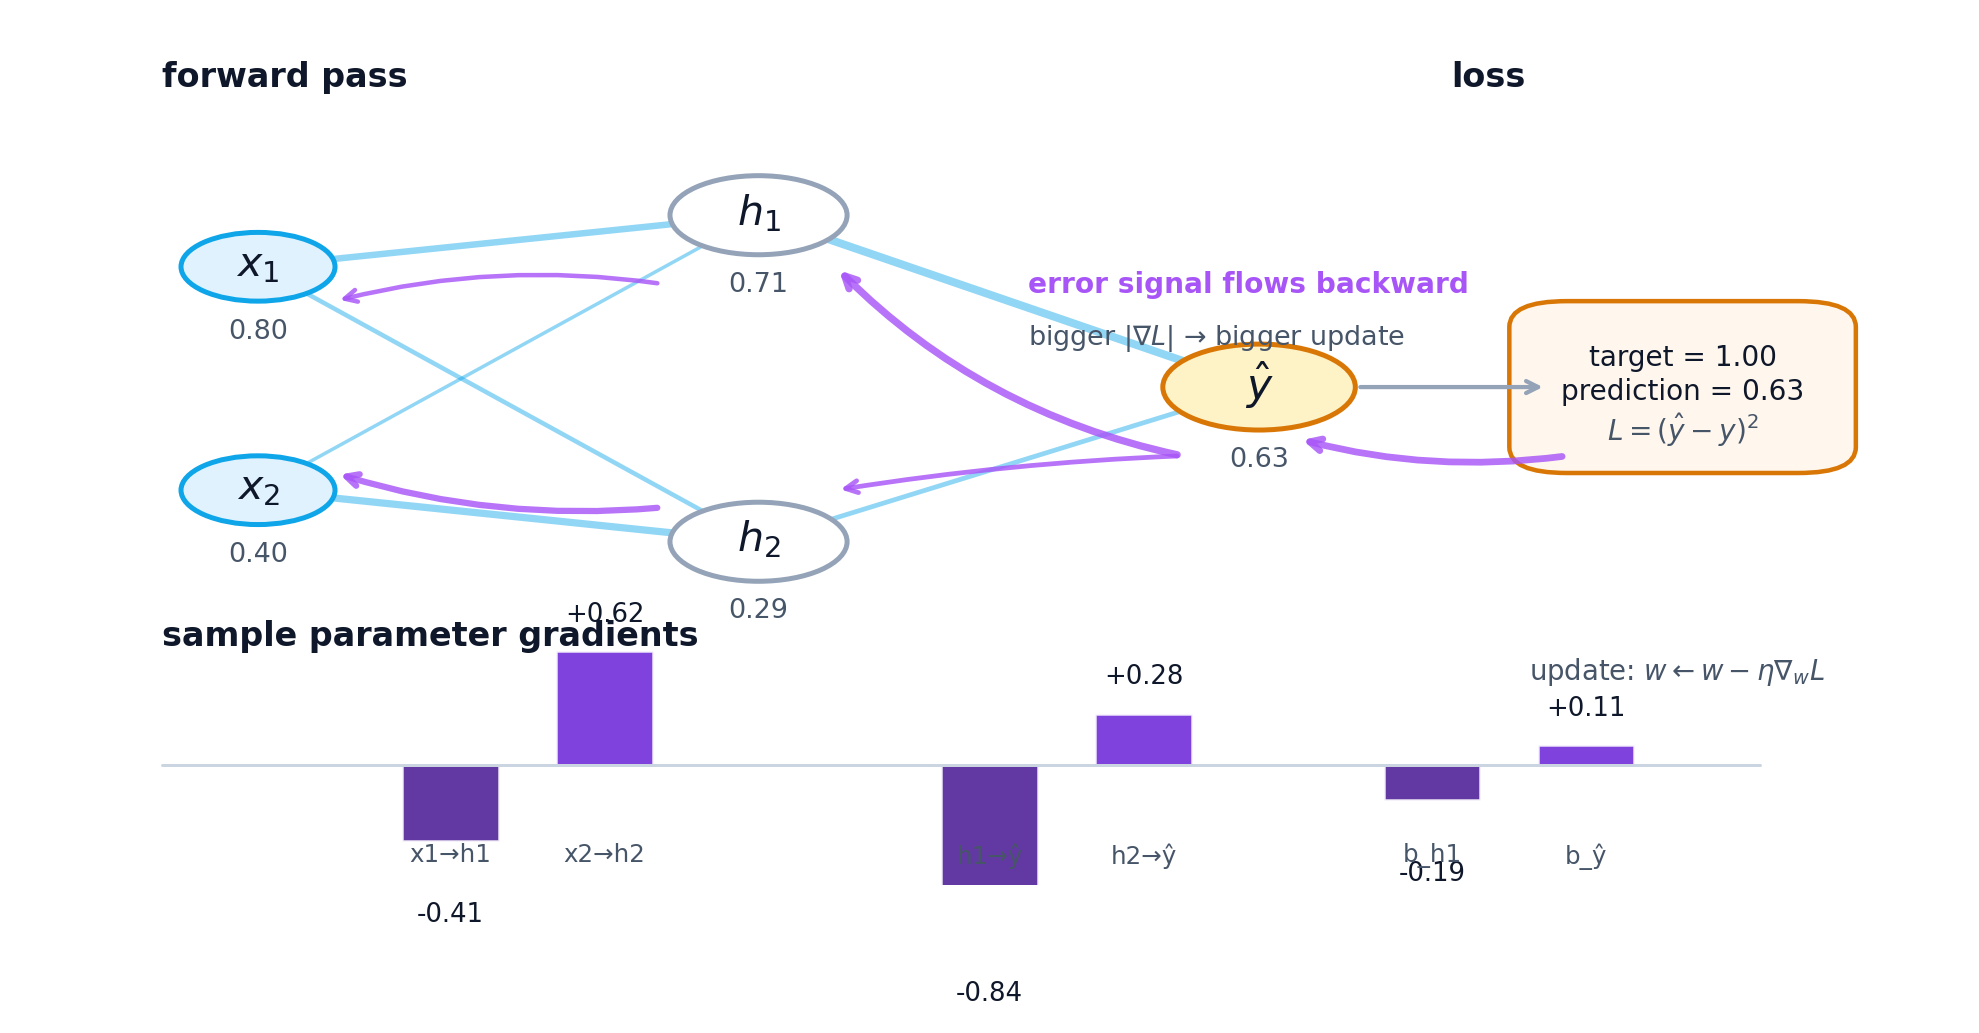
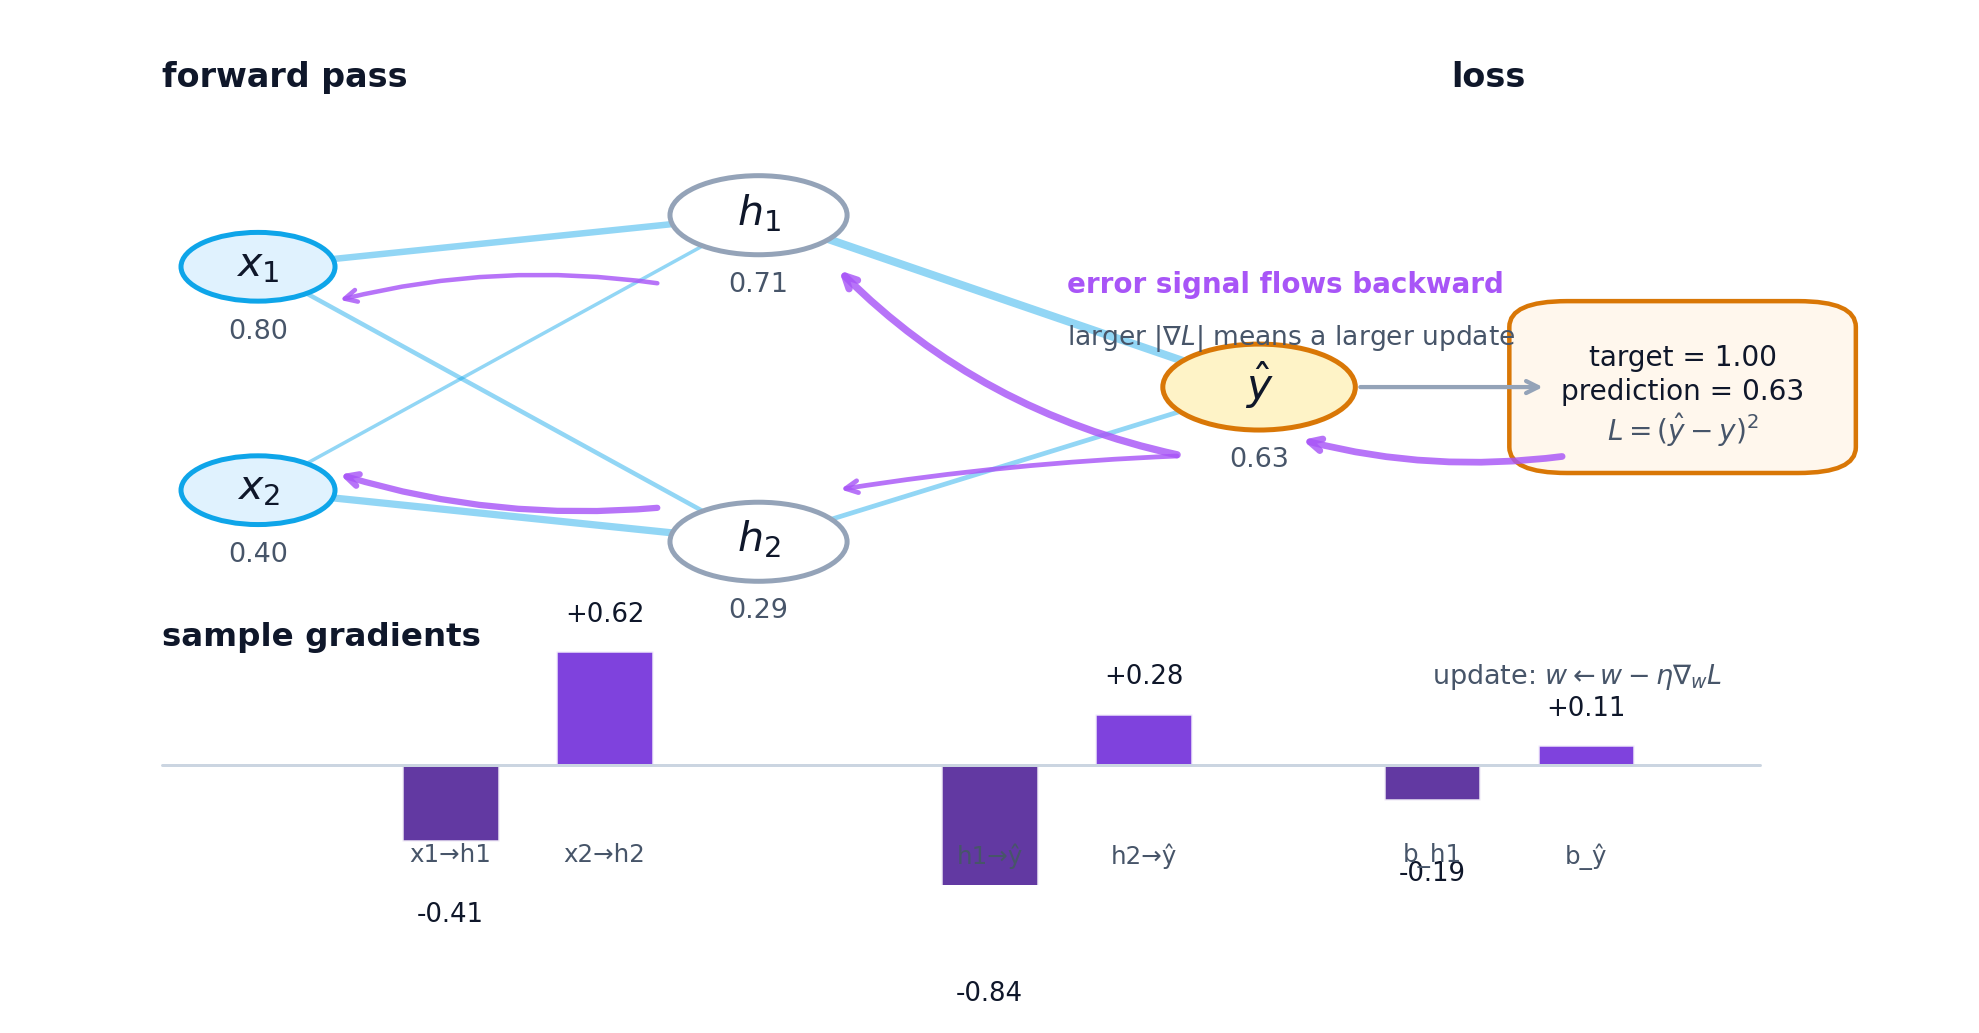
Audit article figures and fix overlap issues

diff --git a/scripts/generate_neural_network_article_images.py b/scripts/generate_neural_network_article_images.py
@@ -276,16 +276,15 @@ def image_weights_biases():
     save(fig, 'weights-biases.png')
 
 def image_weights_bias_animation():
-    feature_names = ['room below target', 'someone home', 'afternoon sun']
+    feature_names = ['cold room', 'someone home', 'afternoon sun']
     values = np.array([0.80, 1.00, 0.60])
     baseline_weights = np.array([1.10, 0.50, -0.70])
     baseline_feature_score = np.dot(values, baseline_weights)
 
-    fig, (ax_weights, ax_bias) = plt.subplots(1, 2, figsize=(13.6, 5.0), facecolor='white')
-    fig.subplots_adjust(left=0.06, right=0.98, bottom=0.14, top=0.86, wspace=0.22)
-    fig.text(0.06, 0.93, 'same room, two different knobs', fontsize=18, fontweight='bold', color=COLORS['ink'])
-    fig.text(0.06, 0.88, 'left changes what matters. right changes how much evidence is enough.', fontsize=11.6, color=COLORS['muted'])
-    fig.text(0.06, 0.83, 'room state: cold = 0.80, home = 1.00, sun = 0.60', fontsize=11.0, color=COLORS['muted'])
+    fig, (ax_weights, ax_bias) = plt.subplots(1, 2, figsize=(13.8, 5.2), facecolor='white')
+    fig.subplots_adjust(left=0.12, right=0.98, bottom=0.14, top=0.78, wspace=0.22)
+    fig.text(0.06, 0.93, 'Thermostat example: weight vs bias', fontsize=18.5, fontweight='bold', color=COLORS['ink'])
+    fig.text(0.06, 0.88, 'Room stays fixed: cold 0.80, home 1.00, sun 0.60. Left changes one weight; right changes only bias.', fontsize=11.2, color=COLORS['muted'])
 
     frames = list(range(48))
 
@@ -312,7 +311,7 @@ def image_weights_bias_animation():
         left_threshold = -current_bias
         left_z = left_score + current_bias
 
-        ax_weights.set_title('weights', loc='left', fontsize=14, pad=10, fontweight='bold')
+        ax_weights.set_title('left knob: weight', loc='left', fontsize=13.5, pad=10, fontweight='bold')
         y = np.arange(len(feature_names))
         colors = [COLORS['blue_dark'], COLORS['green_dark'], COLORS['red_dark']]
         ax_weights.barh(y, contributions, color=colors, alpha=0.88)
@@ -324,12 +323,25 @@ def image_weights_bias_animation():
         sns.despine(ax=ax_weights, left=True, bottom=False)
         for idx, value in enumerate(contributions):
             ax_weights.text(value + (0.03 if value >= 0 else -0.03), idx, f'{value:+.2f}', va='center', ha='left' if value >= 0 else 'right', fontsize=10.2)
-        ax_weights.text(0.02, 0.96, phase_label if weight_phase else 'weights fixed', transform=ax_weights.transAxes, va='top', fontsize=11.0, color=COLORS['muted'])
-        ax_weights.text(0.02, 0.86, f'cold-room weight = {current_weights[0]:+.2f}', transform=ax_weights.transAxes, va='top', fontsize=11.0, color=COLORS['ink'])
-        ax_weights.text(0.02, 0.76, f'score = {left_score:.2f}   cutoff = {left_threshold:.2f}', transform=ax_weights.transAxes, va='top', fontsize=11.0, color=COLORS['ink'])
-        ax_weights.text(0.02, 0.66, 'heat on' if left_z > 0 else 'stay off', transform=ax_weights.transAxes, va='top', fontsize=11.4, fontweight='bold', color=COLORS['green_dark'] if left_z > 0 else COLORS['red_dark'])
+        left_summary = '\n'.join([
+            'moving now' if weight_phase else 'fixed now',
+            f'cold-room weight = {current_weights[0]:+.2f}',
+            f'room score = {left_score:.2f}   cutoff = {left_threshold:.2f}',
+        ])
+        ax_weights.text(
+            0.03,
+            0.95,
+            left_summary,
+            transform=ax_weights.transAxes,
+            va='top',
+            fontsize=10.7,
+            color=COLORS['ink'],
+            linespacing=1.35,
+            bbox={'boxstyle': 'round,pad=0.20', 'fc': 'white', 'ec': 'none', 'alpha': 0.88},
+        )
+        ax_weights.text(0.03, 0.67, 'heat on' if left_z > 0 else 'stay off', transform=ax_weights.transAxes, va='top', fontsize=11.2, fontweight='bold', color=COLORS['green_dark'] if left_z > 0 else COLORS['red_dark'])
 
-        ax_bias.set_title('bias', loc='left', fontsize=14, pad=10, fontweight='bold')
+        ax_bias.set_title('right knob: bias', loc='left', fontsize=13.5, pad=10, fontweight='bold')
         ax_bias.set_xlim(0.0, 1.35)
         ax_bias.set_ylim(0, 1)
         ax_bias.set_yticks([])
@@ -341,10 +353,23 @@ def image_weights_bias_animation():
         z = feature_score + bias_demo
         ax_bias.axvline(threshold, color=COLORS['ink'], linewidth=2)
         ax_bias.scatter([feature_score], [0.45], s=84, color=COLORS['blue_dark'], zorder=3)
-        ax_bias.text(0.02, 0.96, 'bias fixed' if weight_phase else phase_label, transform=ax_bias.transAxes, va='top', fontsize=11.0, color=COLORS['muted'])
-        ax_bias.text(0.02, 0.86, f'same score = {feature_score:.2f}', transform=ax_bias.transAxes, va='top', fontsize=11.0, color=COLORS['blue_dark'])
-        ax_bias.text(0.02, 0.76, f'b = {bias_demo:+.2f}   cutoff = {threshold:.2f}', transform=ax_bias.transAxes, va='top', fontsize=11.0, color=COLORS['ink'])
-        ax_bias.text(0.02, 0.66, 'heat on' if z > 0 else 'stay off', transform=ax_bias.transAxes, va='top', fontsize=11.4, fontweight='bold', color=COLORS['green_dark'] if z > 0 else COLORS['red_dark'])
+        right_summary = '\n'.join([
+            'fixed now' if weight_phase else 'moving now',
+            f'same room score = {feature_score:.2f}',
+            f'bias = {bias_demo:+.2f}   cutoff = {threshold:.2f}',
+        ])
+        ax_bias.text(
+            0.03,
+            0.95,
+            right_summary,
+            transform=ax_bias.transAxes,
+            va='top',
+            fontsize=10.7,
+            color=COLORS['ink'],
+            linespacing=1.35,
+            bbox={'boxstyle': 'round,pad=0.20', 'fc': 'white', 'ec': 'none', 'alpha': 0.88},
+        )
+        ax_bias.text(0.03, 0.67, 'heat on' if z > 0 else 'stay off', transform=ax_bias.transAxes, va='top', fontsize=11.2, fontweight='bold', color=COLORS['green_dark'] if z > 0 else COLORS['red_dark'])
         ax_bias.text(threshold, 0.74, 'cutoff', ha='center', fontsize=10.2, color=COLORS['muted'])
         ax_bias.text(feature_score, 0.18, 'same room score', ha='center', fontsize=10.0, color=COLORS['blue_dark'])
 
@@ -353,25 +378,25 @@ def image_weights_bias_animation():
     plt.close(fig)
 
 def image_activation_functions():
-    fig, ax = plt.subplots(figsize=(14, 8))
+    fig, ax = plt.subplots(figsize=(14, 7.2))
     fig.patch.set_facecolor(COLORS['bg'])
-    fig.subplots_adjust(top=0.80, left=0.08, right=0.97, bottom=0.12)
+    fig.subplots_adjust(top=0.83, left=0.08, right=0.97, bottom=0.14)
     x = np.linspace(-4.5, 4.5, 400)
     relu = np.maximum(0, x)
     sigmoid = 1 / (1 + np.exp(-x))
     tanh = np.tanh(x)
+
+    fig.text(0.08, 0.95, 'Activation functions break the straight-line limit', fontsize=20.5, fontweight='bold', color=COLORS['ink'])
+    fig.text(0.08, 0.905, 'Each curve reshapes the weighted sum differently after the same scoring step.', fontsize=11.8, color=COLORS['muted'])
 
     ax.plot(x, relu, color=COLORS['amber_dark'], linewidth=3, label='ReLU')
     ax.plot(x, sigmoid, color=COLORS['blue_dark'], linewidth=3, label='Sigmoid')
     ax.plot(x, tanh, color=COLORS['green_dark'], linewidth=3, label='Tanh')
     ax.axhline(0, color=COLORS['line'], linewidth=1)
     ax.axvline(0, color=COLORS['line'], linewidth=1)
-    ax.set_title('Activation functions are where the model stops being linear', loc='left', pad=15)
-    ax.text(0.0, 1.06, 'Different curves, same big job: add non-linearity so the model can bend.',
-            transform=ax.transAxes, fontsize=12.5, color=COLORS['muted'])
     ax.set_xlabel('input to the activation')
     ax.set_ylabel('output response')
-    ax.legend(frameon=False, ncol=3, loc='upper left')
+    ax.legend(frameon=False, ncol=3, loc='upper left', bbox_to_anchor=(0.0, 1.01), borderaxespad=0.0)
     ax.grid(alpha=0.22)
     sns.despine(ax=ax)
     save(fig, 'activation-functions.png')
@@ -668,7 +693,7 @@ def image_backprop_blame_assignment():
 
     ax.text(0.07, 0.93, 'forward pass', fontsize=13.4, fontweight='bold', color=COLORS['ink'])
     ax.text(0.74, 0.93, 'loss', fontsize=13.4, fontweight='bold', color=COLORS['ink'])
-    ax.text(0.07, 0.28, 'sample parameter gradients', fontsize=13.4, fontweight='bold', color=COLORS['ink'])
+    ax.text(0.07, 0.28, 'sample gradients', fontsize=13.0, fontweight='bold', color=COLORS['ink'])
 
     inputs = [(0.12, 0.72, r'$x_1$', 0.80), (0.12, 0.46, r'$x_2$', 0.40)]
     hidden = [(0.38, 0.78, r'$h_1$', 0.71), (0.38, 0.40, r'$h_2$', 0.29)]
@@ -714,8 +739,8 @@ def image_backprop_blame_assignment():
     ]
     for start, end, rad, width in backward_paths:
         ax.add_patch(FancyArrowPatch(start, end, arrowstyle='->', linewidth=width, color=COLORS['purple'], alpha=0.82, mutation_scale=12, connectionstyle=f'arc3,rad={rad}'))
-    ax.text(0.52, 0.69, 'error signal flows backward', fontsize=11.2, color=COLORS['purple'], fontweight='bold')
-    ax.text(0.52, 0.63, r'bigger $|\nabla L|$ → bigger update', fontsize=10.8, color=COLORS['muted'])
+    ax.text(0.54, 0.69, 'error signal flows backward', fontsize=11.1, color=COLORS['purple'], fontweight='bold')
+    ax.text(0.54, 0.63, r'larger $|\nabla L|$ means a larger update', fontsize=10.6, color=COLORS['muted'])
 
     baseline = 0.14
     ax.plot([0.07, 0.90], [baseline, baseline], color='#cbd5e1', linewidth=1.2)
@@ -734,7 +759,7 @@ def image_backprop_blame_assignment():
         ax.add_patch(Rectangle((x - 0.025, baseline), 0.05, height, facecolor=color, alpha=0.88))
         ax.text(x, baseline + height + (0.028 if value >= 0 else -0.070), f'{value:+.2f}', ha='center', va='bottom' if value >= 0 else 'top', fontsize=10.4)
         ax.text(x, 0.05, label, ha='center', va='top', fontsize=9.8, color=COLORS['muted'])
-    ax.text(0.78, 0.24, r'update: $w \leftarrow w - \eta \nabla_w L$', fontsize=11.0, color=COLORS['muted'])
+    ax.text(0.73, 0.235, r'update: $w \leftarrow w - \eta \nabla_w L$', fontsize=10.8, color=COLORS['muted'])
     save(fig, 'backprop-blame-assignment.png')
 
 def image_debugging_checklist():

diff --git a/_notes/neural-network-figure-scorecard.md b/_notes/neural-network-figure-scorecard.md
@@ -1,0 +1,61 @@
+# Neural Network Article Figure Scorecard
+
+Legend:
+
+- `LC` lesson clarity
+- `PL` plain-language labels
+- `RO` reading order
+- `FC` fixed vs changing
+- `QH` quantitative honesty
+- `MA` math alignment
+- `TF` text fit
+- `VE` visual economy
+- `AC` accessibility
+- `EP` editorial polish
+
+Shipping threshold: `40/50` and no score below `3`.
+
+| Figure | LC | PL | RO | FC | QH | MA | TF | VE | AC | EP | Total |
+| --- | ---: | ---: | ---: | ---: | ---: | ---: | ---: | ---: | ---: | ---: | ---: |
+| `explanation-problem.png` | 4 | 5 | 5 | 4 | 5 | 4 | 5 | 4 | 4 | 4 | 44 |
+| `neuron-scoring-rule.png` | 5 | 4 | 5 | 4 | 5 | 5 | 4 | 4 | 4 | 4 | 44 |
+| `weights-biases.png` | 5 | 4 | 5 | 5 | 5 | 5 | 5 | 4 | 4 | 4 | 46 |
+| `weights-bias-threshold-shift.gif` | 5 | 4 | 5 | 5 | 5 | 4 | 4 | 4 | 4 | 4 | 44 |
+| `activation-functions.png` | 4 | 4 | 5 | 4 | 5 | 5 | 5 | 4 | 4 | 4 | 44 |
+| `representation-building.png` | 4 | 4 | 5 | 5 | 4 | 4 | 5 | 4 | 4 | 4 | 43 |
+| `backprop-blame-assignment.png` | 5 | 4 | 4 | 5 | 4 | 5 | 4 | 4 | 4 | 4 | 43 |
+| `debugging-checklist.png` | 4 | 5 | 5 | 4 | 5 | 4 | 5 | 3 | 4 | 4 | 43 |
+
+## Notes By Figure
+
+- `explanation-problem.png`
+  - Clear and clean now.
+  - Still a little box-heavy, but not confusing.
+
+- `neuron-scoring-rule.png`
+  - Good teaching arc from inputs to weighted sum to activation.
+  - Next improvement would be slightly more breathing room around the left table.
+
+- `weights-biases.png`
+  - Strongest current figure because the example is concrete and the cutoff shift is explicit.
+  - Keep using this style: one scenario, one score, one decision difference.
+
+- `weights-bias-threshold-shift.gif`
+  - Much cleaner after the collision fix.
+  - Still a bit dense in the left summary block, so it should be watched in future passes.
+
+- `activation-functions.png`
+  - The title collision is fixed.
+  - Still more generic than the best figures in the set because it shows curves but not a concrete downstream consequence.
+
+- `representation-building.png`
+  - Good before/after progression.
+  - Could get stronger with one more explicit cue about why the final line reads the later representation better.
+
+- `backprop-blame-assignment.png`
+  - The story is there now: forward pass, loss, backward signal, gradient sizes.
+  - The lower bar section is still busier than it should be.
+
+- `debugging-checklist.png`
+  - Legible and useful, but the most slide-like figure in the set.
+  - If this gets another pass, reduce the box treatment and make the hierarchy more editorial.

diff --git a/_notes/figure-quality-rubric.md b/_notes/figure-quality-rubric.md
@@ -1,0 +1,44 @@
+# Explanatory Figure Quality Rubric
+
+This is the working 50-point rule for article graphics in this repo.
+
+## Scoring
+
+- Score each criterion from `0` to `5`.
+- Ten criteria × five points each = `50` total.
+- If a criterion is not central to that figure type, give it a `5` only if the figure avoids creating a false problem in that area.
+
+## Ship Rule
+
+- `40/50` is the minimum shipping score.
+- No single criterion may score below `3/5`.
+- Any visible text collision, cropped label, or unreadable overlap is an automatic fail even if the raw total is above `40`.
+
+## Criteria
+
+1. `Lesson Clarity`
+   - Can a viewer say what the figure teaches in one sentence?
+2. `Plain-Language Labels`
+   - Do labels explain the job first instead of hiding behind jargon?
+3. `Reading Order`
+   - Is the left-to-right or top-to-bottom scan obvious?
+4. `Fixed vs Changing`
+   - Is it clear what stays fixed and what changes?
+5. `Quantitative Honesty`
+   - If magnitude matters, are scales, thresholds, or numeric anchors shown?
+6. `Math Alignment`
+   - Does the visual match the equations and symbols used in the article?
+7. `Text Fit`
+   - Are labels readable, uncrowded, uncropped, and collision-free?
+8. `Visual Economy`
+   - Did we remove decorative junk and keep only meaning-bearing elements?
+9. `Accessibility`
+   - Is contrast strong enough and color not doing all the work alone?
+10. `Editorial Polish`
+   - Does it look like a publication figure instead of a slide or AI infographic?
+
+## Fast Triage Rule
+
+- Fix `Text Fit` first.
+- Then fix `Lesson Clarity` and `Fixed vs Changing`.
+- Only polish color, spacing, and style after those three pass.
